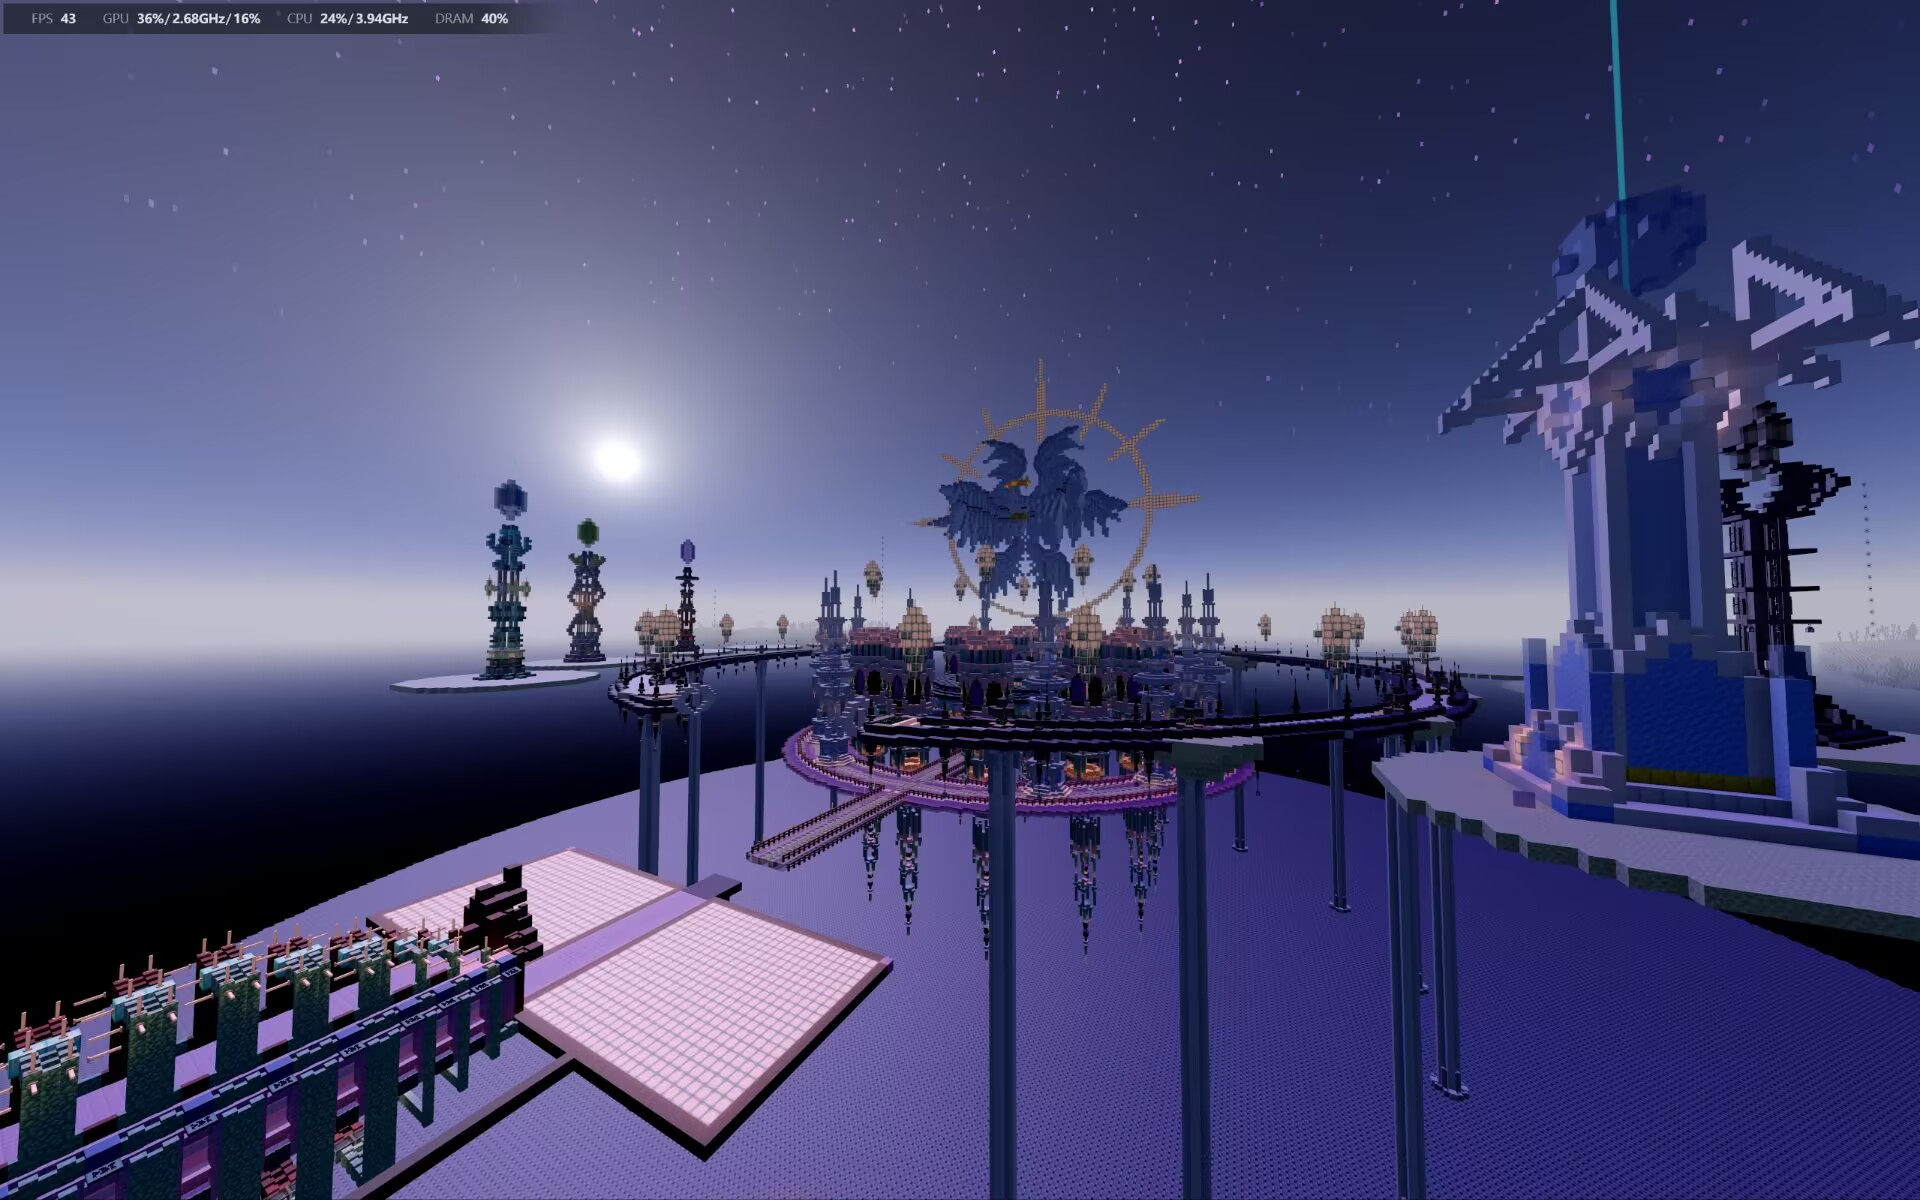
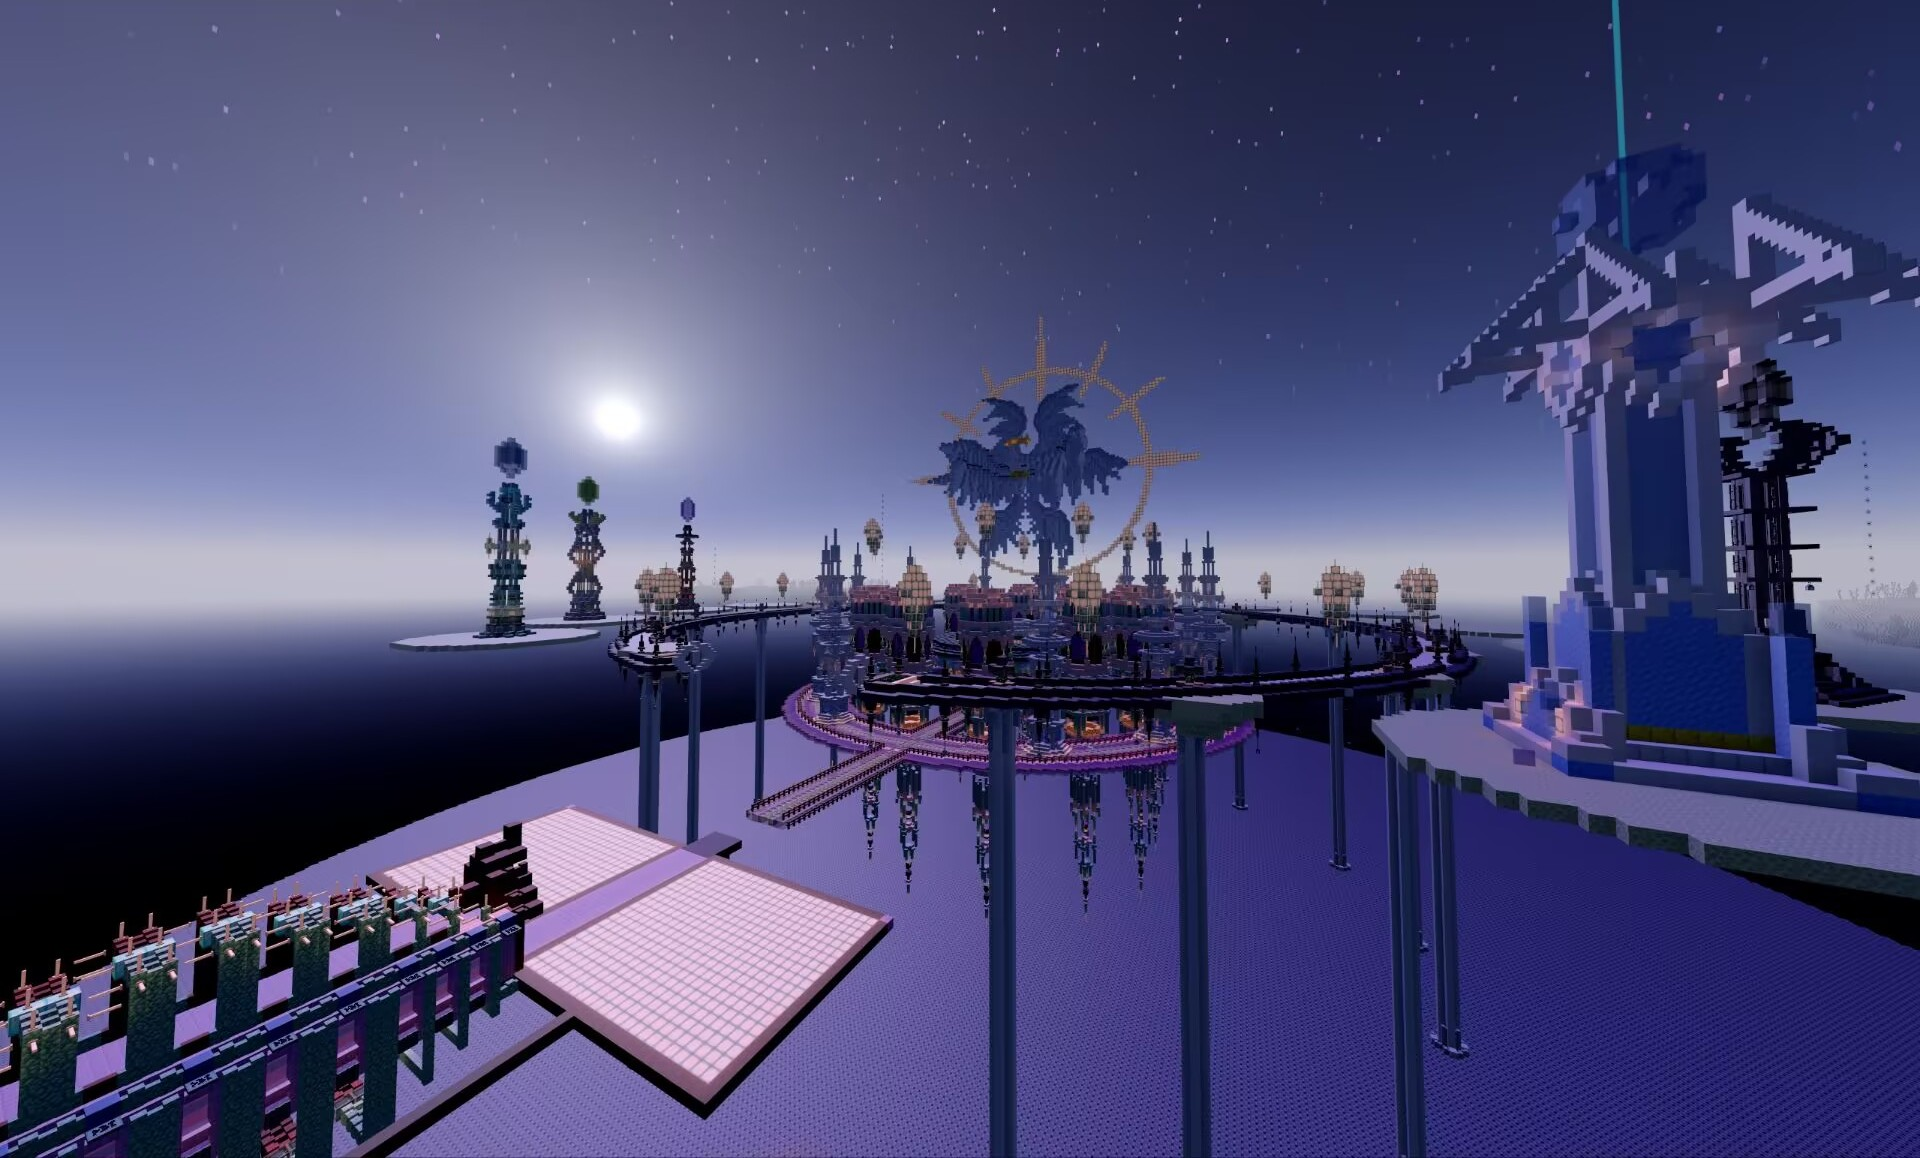
ciallo

diff --git a/script.js b/script.js
@@ -351,7 +351,10 @@ document.addEventListener('DOMContentLoaded', () => {
 let currentBgIndex = 0;
 const backgroundImages = [
     'images/EF13DDC8136672FB8AB3C77429A5FE14.jpg',
-    'images/38B32115FF628DB757ECA3562B2178AB.jpg'
+    'images/38B32115FF628DB757ECA3562B2178AB.jpg',
+    'images/2E0A6A054B80D94AA1FE5A5D45A17F6D.jpg',
+    'images/6A7AC902334C0E90B0E5568DF4FBEEB6.jpg',
+    'images/%E5%B1%8F%E5%B9%95%E6%88%AA%E5%9B%BE%202025-05-18%20130428.png'
 ];
 
 function changeBackground() {
@@ -372,8 +375,8 @@ function changeBackground() {
     }
 }
 
-// 每30秒切换一次背景图片
-setInterval(changeBackground, 30000);
+// 每10秒切换一次背景图片
+setInterval(changeBackground, 10000);
 
 // 鼠标移动视差效果
 document.addEventListener('mousemove', (e) => {
